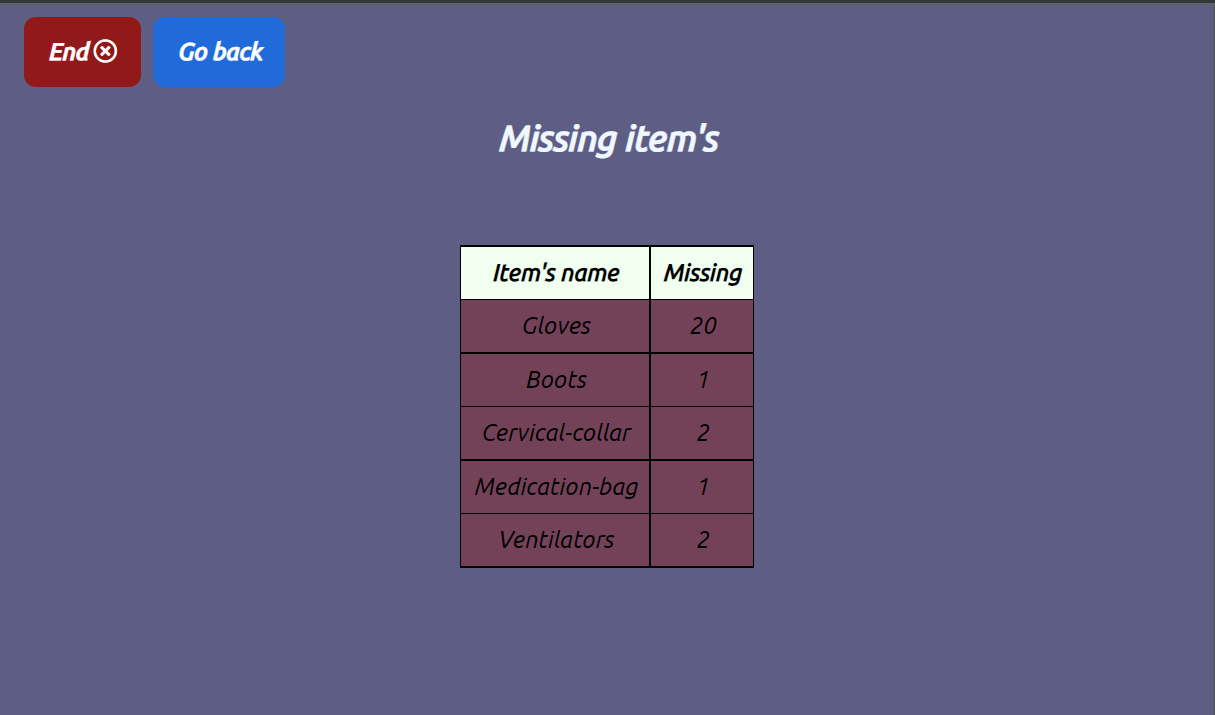
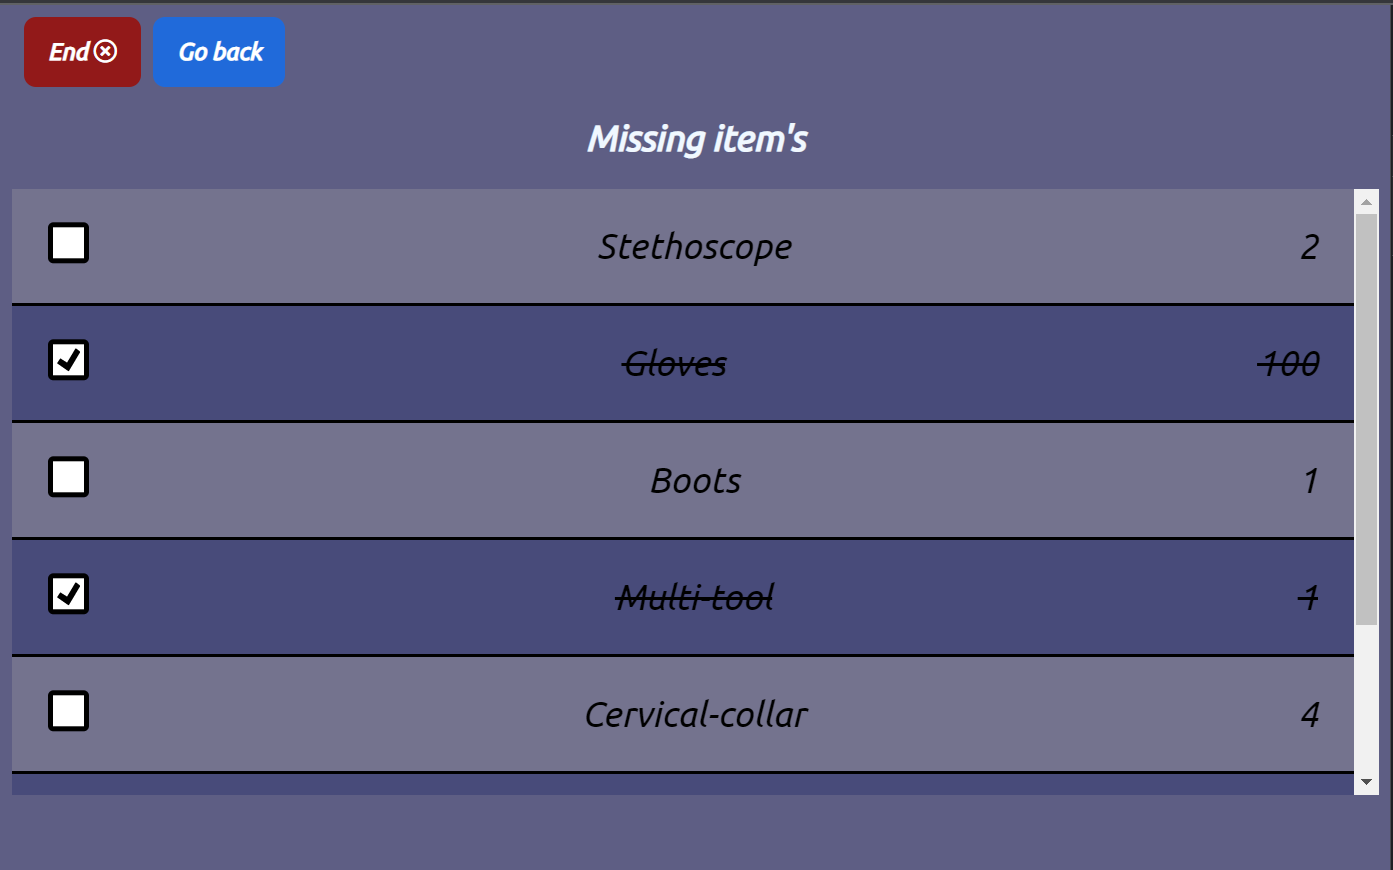
# Replacing the missing list to a checklist and not to a table

diff --git a/paramedics-equipment-list/src/styles/MissingItems.css b/paramedics-equipment-list/src/styles/MissingItems.css
@@ -1,15 +1,3 @@
-/***** TABLE *****/
-.table-container {
-  position: absolute;
-  top: 10em;
-  width: 50%;
-  left: 25%;
-}
-
-.table-container table {
-  background-color: rgba(146, 25, 25, 0.404);
-}
-
 /***** LIST *****/
 .navigate-btns {
   list-style-type: none;
@@ -32,6 +20,30 @@
   background-color: #111;
 }
 
+.missing-item-list {
+  list-style: none;
+  font-size: 1.5em;
+  height: 70vh;
+  overflow-y: auto;
+  background-color: rgba(39, 39, 90, 0.233);
+  margin: 0;
+  padding: 0;
+}
+
+.missing-item-list li {
+  display: flex;
+  justify-content: space-between;
+  padding: 1em;
+  border-bottom: 2px black solid;
+}
+
+.missing-item-list li:nth-child(odd) {
+  background-color: rgba(255, 248, 220, 0.2);
+}
+.missing-item-list li:nth-child(even) {
+  background-color: rgba(34, 49, 119, 0.2);
+}
+
 /***** BUTTONS *****/
 .end-btn-two,
 .back-btn {
@@ -51,3 +63,44 @@
 .end-btn-two {
   background-color: rgb(146, 25, 25);
 }
+
+/***** CHECKBOX *****/
+input[type='checkbox'] {
+  /* Add if not using autoprefixer */
+  -webkit-appearance: none;
+  appearance: none;
+  /* For iOS < 15 to remove gradient background */
+  background-color: #fff;
+  /* Not removed via appearance */
+  margin: 0;
+  font: inherit;
+  color: currentColor;
+  width: 1.15em;
+  height: 1.15em;
+  border: 0.15em solid currentColor;
+  border-radius: 0.15em;
+  transform: translateY(-0.075em);
+  display: grid;
+  place-content: center;
+}
+
+input[type='checkbox']::before {
+  content: '';
+  width: 0.65em;
+  height: 0.65em;
+  transform: scale(0);
+  transition: 120ms transform ease-in-out;
+  box-shadow: inset 1em 1em var(--form-control-color);
+  background-color: CanvasText;
+  transform-origin: bottom left;
+  clip-path: polygon(14% 44%, 0 65%, 50% 100%, 100% 16%, 80% 0%, 43% 62%);
+}
+
+input[type='checkbox']:checked::before {
+  transform: scale(1);
+}
+
+/* input[type='checkbox']:focus {
+  outline: max(2px, 0.15em) solid currentColor;
+  outline-offset: max(2px, 0.15em);
+} */

diff --git a/paramedics-equipment-list/src/components/MissingItems.jsx b/paramedics-equipment-list/src/components/MissingItems.jsx
@@ -4,6 +4,8 @@ import { useNavigate } from 'react-router-dom';
 // Actions
 import { reset as resetEquipment } from '../actions/equipmentActions';
 import { reset as resetWorker } from '../actions/workerActions';
+// Components
+import MissingItem from './MissingItem';
 // Style
 import '../styles/MissingItems.css';
 
@@ -45,27 +47,14 @@ function MissingItems({ isLogged }) {
         </li>
       </ul>
       <h2>Missing item's</h2>
-      <div className='table-container'>
-        <table>
-          <thead>
-            <tr>
-              <th>Item's name</th>
-              <th>Missing</th>
-            </tr>
-          </thead>
-          <tbody>
-            {missingItemsList.map((item, index) => {
-              if (item.missing !== 0) {
-                return (
-                  <tr key={index}>
-                    <td>{item.name}</td>
-                    <td>{item.missing}</td>
-                  </tr>
-                );
-              }
-            })}
-          </tbody>
-        </table>
+      <div className='list-container'>
+        <ul className='missing-item-list'>
+          {missingItemsList.map((item, index) => {
+            if (item.missing !== 0) {
+              return <MissingItem index={index} item={item} />;
+            }
+          })}
+        </ul>
       </div>
     </div>
   );

diff --git a/paramedics-equipment-list/src/components/MissingItem.jsx b/paramedics-equipment-list/src/components/MissingItem.jsx
@@ -1,0 +1,29 @@
+import React, { useState } from 'react';
+
+function MissingItem({ index, item }) {
+  /***** STATES *****/
+  const [checked, setChecked] = useState(false);
+
+  /***** FUNCTIONS *****/
+  const toggleCheck = () => {
+    setChecked(prevState => !prevState);
+  };
+
+  return (
+    <li key={index}>
+      <input type='checkbox' onClick={toggleCheck} />
+      {checked
+        ? [
+            <span>
+              <strike>{item.name}</strike>
+            </span>,
+            <span>
+              <strike>{item.missing}</strike>
+            </span>,
+          ]
+        : [<span>{item.name}</span>, <span>{item.missing}</span>]}
+    </li>
+  );
+}
+
+export default MissingItem;

diff --git a/README.md b/README.md
@@ -45,6 +45,7 @@
 ### The missing items list- 📃❌
 
 - **Only the missing items are displayed and how much is missing**
+- **You can mark V on the items you have completed and they will be marked this way by a cross line**
 
 ---
 
